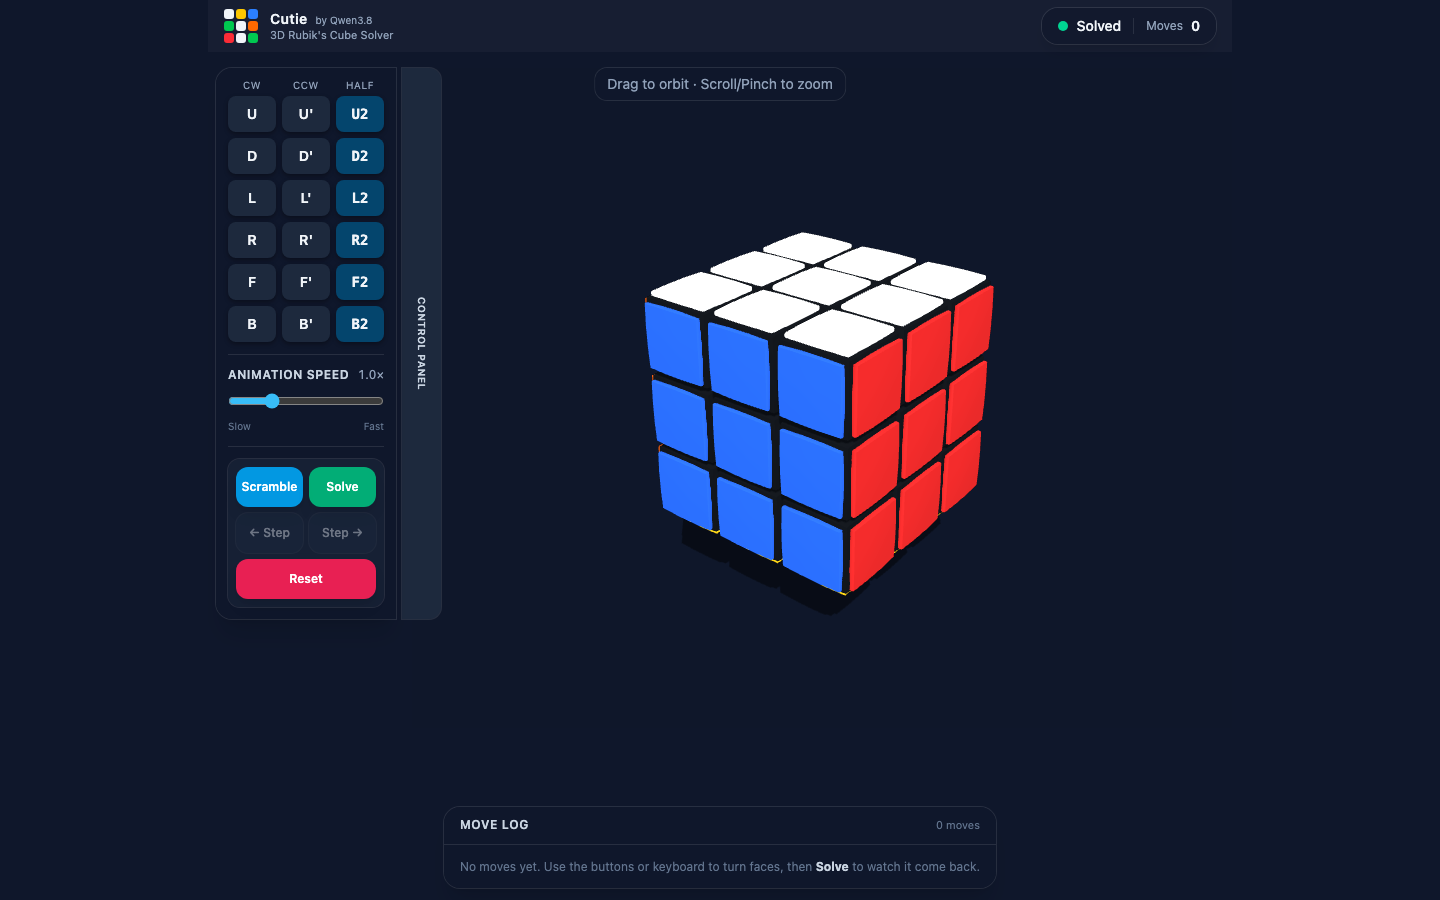
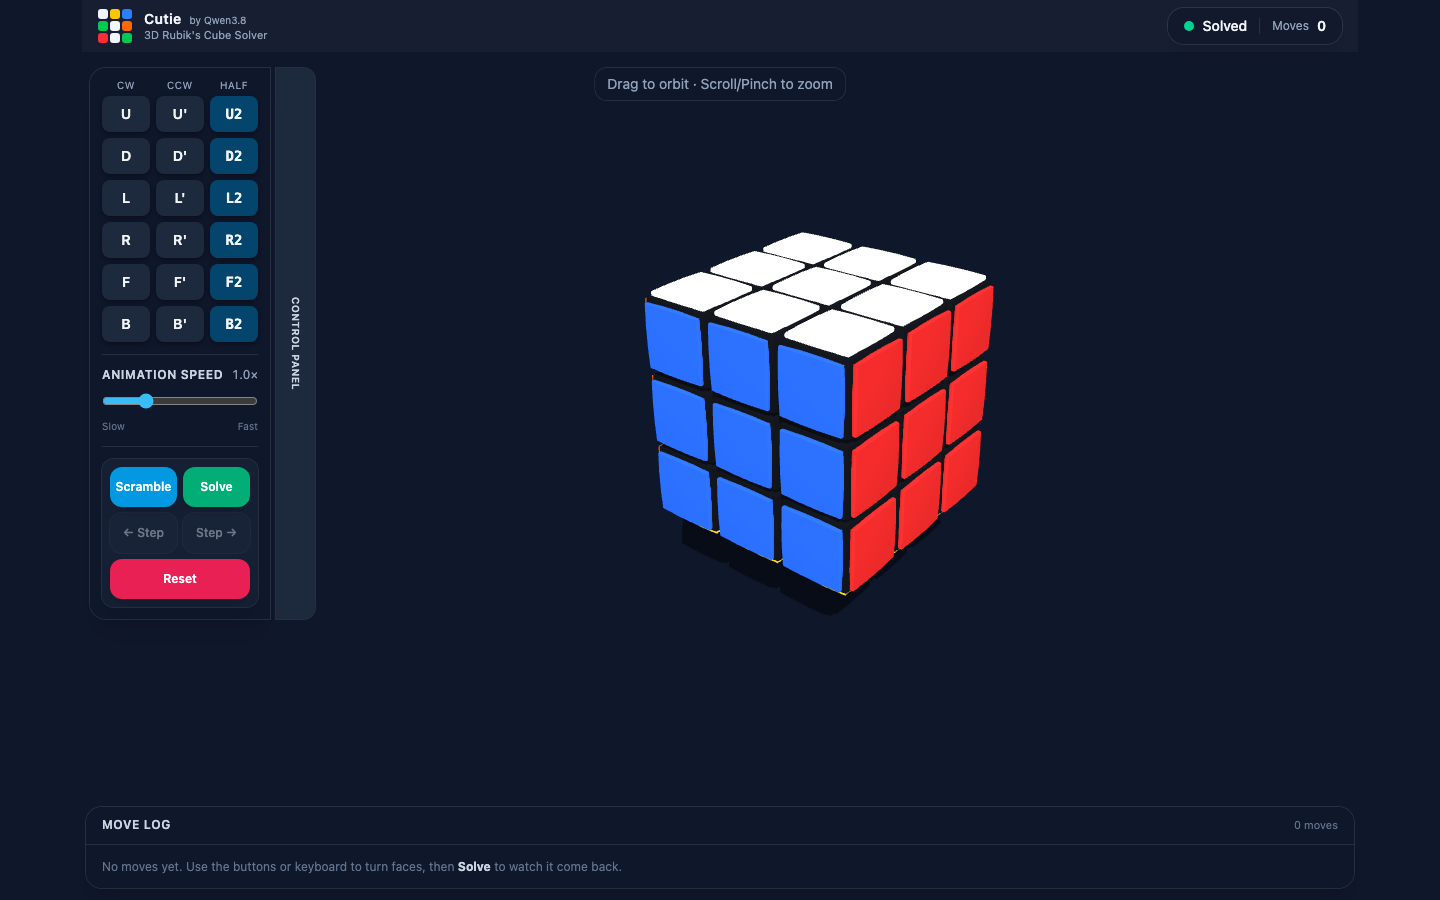
Raise stage cap to 1276×1366; Move Log fills stage width (4px gaps, auto-wrap) (#23)
* Raise the stage cap to 1276x1366 and widen the Move Log

Stage: #stage now caps at 1276px wide x min(100dvh, 1366px) tall
(was 1024x1080); --stage-h and all comment references updated.
Below the caps behaviour is unchanged.

Move Log: the bottom wrapper now spans the stage's width minus a
4px gap at each edge (left-1/right-1) instead of touching both
edges, and the glassy card fills that width — title row and moves
alike. The forced 12-per-row wrap is gone: buttons auto-wrap at
the panel's width, still centered. The reserved 3-row band height
is unchanged (row height is fixed), so cube centering is untouched.

Docs (README + as-built) updated to the final layout.

* Regenerate official screenshots for the 1276x1366 stage

diff --git a/index.html b/index.html
@@ -18,9 +18,9 @@
   body { font-family: ui-sans-serif, system-ui, -apple-system, "Segoe UI", Roboto, sans-serif; }
   /* The stage: the bounding box the ENTIRE app lives in. Horizontally
      centered and TOP-anchored (fixed + inset:0 + margin:0 auto — flush with
-     the viewport top), capped at 1024x1080 so a larger window letterboxes it
+     the viewport top), capped at 1276x1366 so a larger window letterboxes it
      with the page's own background (the body is the same slate-900 as the
-     scene, so the edge is invisible). When the viewport is taller than 1080px
+     scene, so the edge is invisible). When the viewport is taller than 1366px
      the letterbox margin appears at the BOTTOM only; below the caps the stage
      IS the viewport. All chrome is anchored INSIDE it (absolute, never fixed)
      and the WebGL canvas fills its empty space (see #canvas-wrap below).
@@ -33,10 +33,10 @@
     position: fixed;
     inset: 0;
     margin: 0 auto;
-    width: min(100vw, 1024px);
-    height: min(100dvh, 1080px);
+    width: min(100vw, 1276px);
+    height: min(100dvh, 1366px);
     overflow: hidden;
-    --stage-h: min(100dvh, 1080px);
+    --stage-h: min(100dvh, 1366px);
   }
   /* #canvas-wrap fills the stage's EMPTY space — the stage minus the top
      banner, the left drawer band, and the bottom Move Log band (each with a
@@ -47,7 +47,7 @@
      also centers the cube in the empty space. */
   #canvas-wrap { position: absolute; inset: 0; }
   /* Stage-relative size caps (45% / 95% of the stage height). Replaces the
-     old max-h-[45vh] / max-h-[95vh]: identical below the 1080px cap, scaled
+     old max-h-[45vh] / max-h-[95vh]: identical below the 1366px cap, scaled
      to the stage above it. */
   .log-cap { max-height: calc(var(--stage-h) * 0.45); }
   .panel-cap { max-height: calc(var(--stage-h) * 0.95); }
@@ -88,10 +88,10 @@
   .drawer-closed { transform: translateX(var(--drawer-shift)); }
   /* The tab reads vertically, like a binder tab on the panel's right edge. */
   .writing-vertical { writing-mode: vertical-rl; text-orientation: mixed; }
-  /* Move-log buttons: fixed 32px-wide tokens that wrap (up to 12 per row),
-     styled to match the face buttons. The width is fixed — never a fluid grid
-     fraction — so the wrap layout is identical at every screen size. Three
-     visual states driven by state.playIndex:
+  /* Move-log buttons: fixed 32px-wide tokens that auto-wrap at the panel's
+     width, styled to match the face buttons. The width is fixed — never a
+     fluid grid fraction — so the wrap layout is identical at every screen
+     size. Three visual states driven by state.playIndex:
        pending — a move not yet reached (muted, dimmed)
        past    — a move that has already turned (faint "done" look)
        current — the move animating right now (bright amber highlight) */
@@ -117,9 +117,9 @@
 </head>
 <body class="bg-slate-900 text-slate-100">
   <!-- ======================= The stage (confines the whole app) =======================
-       Horizontally centered, TOP-anchored box, max 1024x1080 (see #stage
+       Horizontally centered, TOP-anchored box, max 1276x1366 (see #stage
        CSS): flush with the viewport top, and when the viewport is taller
-       than 1080px the letterbox margin sits at the bottom only. Everything
+       than 1366px the letterbox margin sits at the bottom only. Everything
        below — canvas, banner, drawers, toast, hint — is anchored
        to it. Outside the stage the body's slate-900 (== the scene
        background) shows through, so the letterbox is seamless. -->
@@ -164,15 +164,16 @@
 
   <!-- ======================= Move Log (bottom edge) — always-visible panel ======================= -->
   <!-- Always visible: no drawer, no tab, no toggle, no keyboard shortcut. The
-       wrapper is a full-stage-width, bottom-anchored strip that centers the
-       card and lets pointer events pass through everywhere except the card
-       itself (pointer-events-auto). The card hugs its content (up to 12 fixed
-       32px buttons per row) and caps at 45% of the STAGE height (.log-cap):
-       beyond that the log scrolls internally (.scroll-thin) and the current
-       move auto-scrolls into view. It overlays the stage's canvas with a
-       backdrop blur — the cube and camera are untouched. -->
-  <div class="absolute inset-x-0 bottom-0 z-20 pointer-events-none pb-3 flex justify-center">
-    <section class="pointer-events-auto rounded-2xl bg-slate-900/70 backdrop-blur-md ring-1 ring-white/10 shadow-xl w-fit max-w-full">
+       wrapper spans the stage's full width MINUS a 4px gap at each edge
+       (left-1 / right-1), bottom-anchored, and lets pointer events pass
+       through everywhere except the card itself (pointer-events-auto). The
+       card FILLS that width — title row and moves alike — and caps at 45% of
+       the STAGE height (.log-cap): beyond that the log scrolls internally
+       (.scroll-thin) and the current move auto-scrolls into view. It overlays
+       the stage's canvas with a backdrop blur — the cube and camera are
+       untouched. -->
+  <div class="absolute left-1 right-1 bottom-0 z-20 pointer-events-none pb-3 flex">
+    <section class="pointer-events-auto rounded-2xl bg-slate-900/70 backdrop-blur-md ring-1 ring-white/10 shadow-xl w-full">
       <div class="flex items-center justify-between gap-4 px-4 py-2.5 border-b border-white/10">
         <h2 class="text-xs font-semibold uppercase tracking-wider text-slate-300">Move Log</h2>
         <span id="log-count" class="text-[11px] text-slate-500">0 moves</span>
@@ -181,9 +182,9 @@
         <p id="log-empty" class="text-slate-500 text-xs leading-relaxed px-1 py-1">
           No moves yet. Use the buttons or keyboard to turn faces, then <b class="text-slate-300">Solve</b> to watch it come back.
         </p>
-        <!-- Fixed 32px buttons, up to 12 per row, wrapping to more rows and
-             centered; the max-width cap is 12 buttons + 11 gaps (0.125rem each). -->
-        <div id="log-list" class="flex flex-wrap justify-center gap-0.5 max-w-[calc(12*2rem+11*0.125rem)]"></div>
+        <!-- Fixed 32px buttons that auto-wrap at the panel width, wrapping to
+             as many rows as needed. -->
+        <div id="log-list" class="flex flex-wrap gap-0.5"></div>
       </div>
     </section>
   </div>
@@ -683,7 +684,7 @@
     statusDot.className = 'w-2.5 h-2.5 rounded-full ' + (colors[kind] || 'bg-slate-400');
   }
 
-  // --- The move log: fixed-width move-token buttons (up to 12 per row) ---
+  // --- The move log: fixed-width move-token buttons (auto-wrap at panel width) ---
   const logList = document.getElementById('log-list');
   const logEmpty = document.getElementById('log-empty');
   const logCount = document.getElementById('log-count');

diff --git a/docs/as-built/cutie_current.md b/docs/as-built/cutie_current.md
@@ -34,15 +34,15 @@ client-side with no external backend, and every library is loaded from a CDN.
 ### Stage & empty-rectangle canvas
 - **The stage (`#stage`)** is the bounding box the ENTIRE app lives in:
   `position: fixed; inset: 0; margin: 0 auto` with
-  `width: min(100vw, 1024px)`, `height: min(100dvh, 1080px)`,
+  `width: min(100vw, 1276px)`, `height: min(100dvh, 1366px)`,
   `overflow: hidden`. The height uses **100dvh (dynamic viewport height)**
   rather than `100vh`, so on mobile the stage tracks the *visible* area as
   the browser's toolbars collapse/expand instead of being pushed off the
   bottom of the screen by them. It is **horizontally centered and
   TOP-anchored** — flush with the viewport top, so when the viewport is
-  taller than 1080px the letterbox margin appears
+  taller than 1366px the letterbox margin appears
   at the **bottom only** (and on the sides whenever the viewport is wider than
-  1024px). Below the caps the stage IS the viewport and behaviour is
+  1276px). Below the caps the stage IS the viewport and behaviour is
   unchanged. The body is `bg-slate-900` — the SAME color as the scene clear
   color (`0x0f172a`) — so the letterbox margins are seamless (no visible
   edge). All chrome is anchored **inside** the stage (`absolute`, never
@@ -76,10 +76,10 @@ client-side with no external backend, and every library is loaded from a CDN.
   would vanish for the whole slide), and tracking stops when the card settles
   (≤0.5px from the target for 2 frames, ~3s safety net), snapping to the
   exactly-measured band. **Opening is an instant reflow** (no tracking).
-- **Stage-relative size caps**: `--stage-h: min(100dvh, 1080px)` replaces the
+- **Stage-relative size caps**: `--stage-h: min(100dvh, 1366px)` replaces the
   old viewport units — `.log-cap` (Move Log) = **45% of the stage height** and
   `.panel-cap` (control panel) = **95% of the stage height** (replaces the old
-  `max-h-[45vh]` / `max-h-[95vh]`; identical below the 1080px cap, scaled to
+  `max-h-[45vh]` / `max-h-[95vh]`; identical below the 1366px cap, scaled to
   the stage above it).
 
 ### Cubies
@@ -283,18 +283,19 @@ buttons don't flicker while a sequence animates (see the *Cursor model* note in
 ### Move Log panel (bottom edge) — always visible
 - **Not a drawer**: a panel **fixed at the bottom of the stage, always
   visible** — no tab, no toggle, no keyboard shortcut, no startup decision. The
-  full-**stage-width** bottom wrapper lets pointer events pass through
-  everywhere except the card itself, which is horizontally centered; it sits in
+  bottom wrapper spans the stage's width minus a **4px gap at each edge**
+  (`left-1` / `right-1`) and lets pointer events pass through
+  everywhere except the card itself, which **fills that full width**; it sits in
   the stage's bottom band (the canvas ends 16px above the log's reserved
   height, so the panel never covers the cube).
 - Glassy card (rounded, semi-transparent slate-900, backdrop blur, ring border)
-  that **hugs its content** (up to ~12 buttons wide).
+  that **fills the wrapper's width** (title row and moves alike).
 - **Header**: "Move Log" title + a live **move-count** (e.g. `12 moves`).
 - **Move Log**: a row of move-buttons that **wraps**, one per move token, each a
   **fixed 32px wide** (`2rem`, flex `0 0 auto` — never a fluid grid
-  fraction), **up to 12 per row**, centered. The list's max width is 12 buttons
-  + 11 gaps, so on narrow screens fewer than 12 fit per row and it wraps — no
-  horizontal overflow. Three visual states driven by the **cursor** — **past**
+  fraction), centered, and the row **auto-wraps at the panel's width** (no
+  fixed per-row cap), adding rows as moves are added — no horizontal
+  overflow. Three visual states driven by the **cursor** — **past**
   (index `< cursor`, faint done look), **pending** (index `>= cursor`, dim),
   **current** (the move animating right now / last applied, bright amber
   highlight) — with the current button auto-scrolling into view. The card grows
@@ -544,7 +545,7 @@ how-it-works section, and a tech list (Three.js, cubejs, Tailwind, vanilla JS).
   face *keys* keep `Shift` as the prime modifier and `Alt`/`Option` as the
   half-turn modifier for desktop keyboards.
 - **Stage & empty-rectangle canvas**: the whole app lives in the centered,
-  top-anchored `#stage` box capped at 1024×1080 (seamless slate-900 letterbox
+  top-anchored `#stage` box capped at 1276×1366 (seamless slate-900 letterbox
   on larger windows), and the WebGL canvas fills only the stage's empty
   rectangle (stage minus the banner / drawer / Move Log bands, each + 16px
   clearance; the bottom band is the Move Log's reserved 3-row height) — so the

diff --git a/README.md b/README.md
@@ -58,13 +58,13 @@ The interface is a dark, glassy overlay floating over the 3D viewport.
 Everything — the canvas, the top banner, the Move Log, the control drawer, the
 toast — lives inside a single **stage** box that is **horizontally centered and
 anchored to the top of the window** (flush with the top edge), capped at
-**1024px wide × min(100dvh, 1080px) tall** — the height cap uses the
+**1276px wide × min(100dvh, 1366px) tall** — the height cap uses the
 *dynamic* viewport height (`100dvh`), so on mobile the stage tracks the
 visible area as browser toolbars collapse and expand. When the window is
 smaller than the caps the stage fills it and nothing changes; on a larger
 window the leftover space
 becomes a **letterbox margin** on the sides (and at the **bottom**, when the
-viewport is taller than 1080px). The page background is the same slate-900 as
+viewport is taller than 1366px). The page background is the same slate-900 as
 the 3D scene, so the margin blends in seamlessly and the app simply looks a
 little smaller — nothing moves or re-wraps. The chrome size caps are
 stage-relative (Move Log ≤ 45% and control panel ≤ 95% of the *stage* height,
@@ -101,15 +101,15 @@ The cube itself is **view-only** — turns come from the **face buttons** and
 ### Move Log (bottom edge) — an always-visible panel
 The Move Log is a panel **fixed at the bottom of the stage, always visible** —
 no drawer, no tab, no toggle, no keyboard shortcut. The wrapper spans the
-stage's full bottom width and centers a glassy card; the card hugs its content
-and the canvas/cube are untouched:
+stage's bottom width minus a **4px gap at each edge** (`left-1` / `right-1`),
+and the glassy card **fills that width** — title row and moves alike — with the
+canvas/cube untouched:
 - **Header** — "Move Log" title plus a live **move-count** (e.g. `12 moves`).
 - **Move buttons** — the executed moves shown as a **row of move-buttons that
   wraps**, one per token (`R`, `U'`, `F2`, …), styled to match the face buttons.
   Each button is a **fixed 32px wide**, so the layout is identical at every
-  screen size: **up to 12 per row**, wrapping to additional rows as moves are
-  added, centered. On narrow screens fewer than 12 fit per row and it simply
-  wraps — no horizontal overflow.
+  screen size: buttons **auto-wrap at the panel's width**, centered, adding
+  rows as moves are added — no horizontal overflow.
 - **Scroll** — the card grows with rows but caps at 45% of the **stage height**
   (a stage-relative cap, so it scales with the stage), then scrolls internally; the button for the move being turned
   **highlights first, then the face turns, then the next one** — moves before
